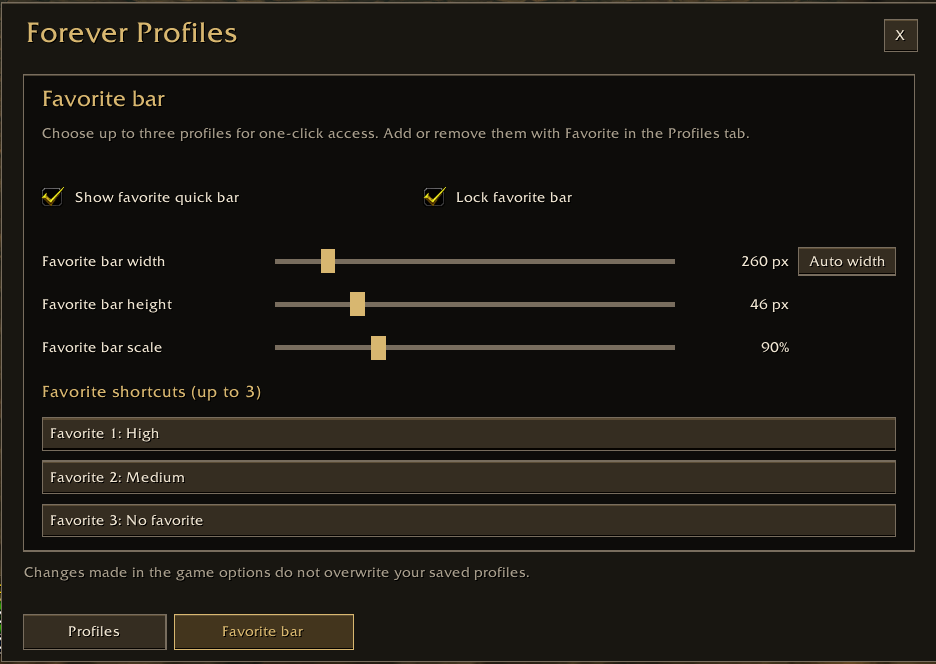
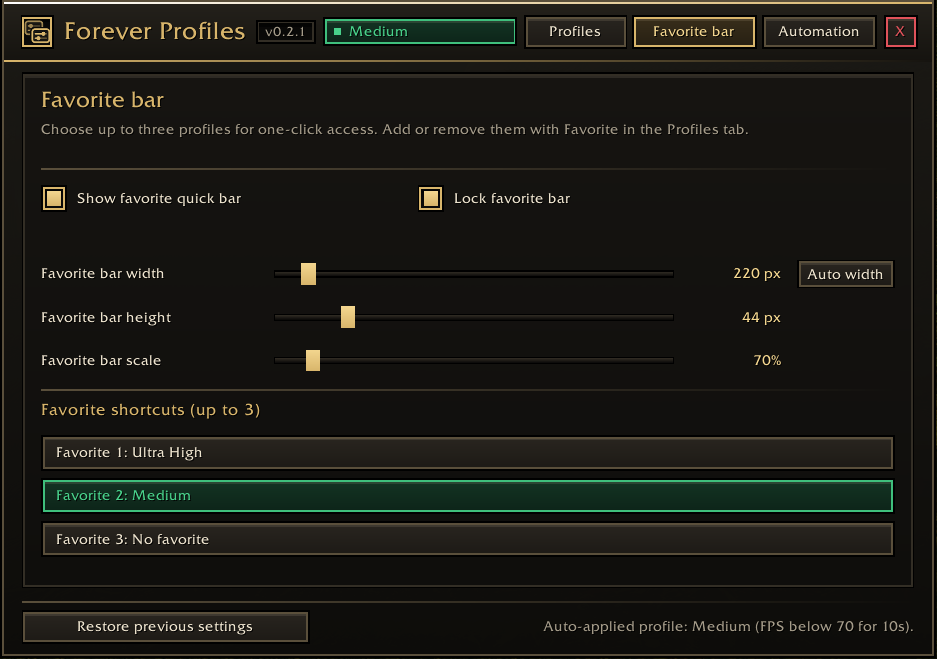
Refresh CurseForge description and screenshots

diff --git a/CURSEFORGE.md b/CURSEFORGE.md
@@ -1,21 +1,17 @@
-<p align="center">
-  <img src="https://raw.githubusercontent.com/jBeyondstars/ForeverProfile/main/Media/Logo-Wordmark-Dark.png" alt="ForeverProfiles" width="900">
-</p>
-
-# ForeverProfiles
+![ForeverProfiles](https://raw.githubusercontent.com/jBeyondstars/ForeverProfile/main/Media/Logo-Wordmark-Dark.png)
 
 **Tired of FPS drops in busy cities or crowded areas?**
 
-Save custom graphics profiles for **WoW Forever** and switch between them with one-click favorites or keyboard shortcuts.
+Save custom graphics profiles for **WoW Forever** and switch between them in one click, with keyboard shortcuts, or automatically when your FPS changes.
 
 ## Features
 
 - Save and manage up to **40 graphics profiles**.
-- Capture general and separate raid settings, including supported render scale and FPS options.
-- Switch quickly using a **3-profile favorites bar**.
-- Move or lock the bar and adjust its width, height, and scale independently.
-- Restore the settings used before your last switch during the current session.
-- WoW-style interface, entirely in English.
+- Capture general and separate raid settings, including supported render scale, FPS limits, ground clutter fade, and sharpening options.
+- Open **Saved settings** to see every graphics setting captured in a profile, including its exact value.
+- Switch quickly using a **3-profile favorites bar**. Move or lock it and adjust its width, height, and scale independently.
+- Share configurations using **Import** and **Export**.
+- Restore the settings used before your last switch during the current session. The restore point resets when you reload the UI or restart the game.
 
 ## Getting started
 
@@ -25,18 +21,26 @@ Save custom graphics profiles for **WoW Forever** and switch between them with o
 
 Create your own setups for exploration, busy areas, or multitasking. Saved profiles are shared across your characters on the same account and installation.
 
-The temporary restore point is cleared by `/reload` or restarting the game.
+## Automatic profile switching
+
+Open **Automation** and enable automatic profile activation. Use **FPS drop** to select a performance profile, then optionally use **FPS recovery** to select the profile you want to return to. Each rule has its own FPS threshold and duration.
+
+For example, apply **Medium** after 5 consecutive seconds below 80 FPS. While **Medium** is active, return to **Ultra High** after 15 consecutive seconds above 100 FPS.
 
 ## Screenshots
 
 **Manage your profiles**
 
-![Graphics profile manager](https://raw.githubusercontent.com/jBeyondstars/ForeverProfile/main/Media/Screenshots/Profiles.png)
+![Graphics profile manager with General, Raid and Saved settings views](https://raw.githubusercontent.com/jBeyondstars/ForeverProfile/main/Media/Screenshots/Profiles.png?v=0.3.0)
+
+**Configure automatic profile switching**
+
+![Automation panel showing the FPS drop and recovery tabs](https://raw.githubusercontent.com/jBeyondstars/ForeverProfile/main/Media/Screenshots/Automation.png?v=0.3.0)
 
 **Switch with one click**
 
-![Favorites quick bar](https://raw.githubusercontent.com/jBeyondstars/ForeverProfile/main/Media/Screenshots/Favorites-Bar.png)
+![Favorites quick bar with Ultra High and Medium profiles](https://raw.githubusercontent.com/jBeyondstars/ForeverProfile/main/Media/Screenshots/Favorites-Bar.png?v=0.3.0)
 
 **Customize the favorites bar**
 
-![Favorites bar width, height, scale, and locking settings](https://raw.githubusercontent.com/jBeyondstars/ForeverProfile/main/Media/Screenshots/Favorites-Settings.png)
+![Favorites bar width, height, scale, and locking settings](https://raw.githubusercontent.com/jBeyondstars/ForeverProfile/main/Media/Screenshots/Favorites-Settings.png?v=0.3.0)
